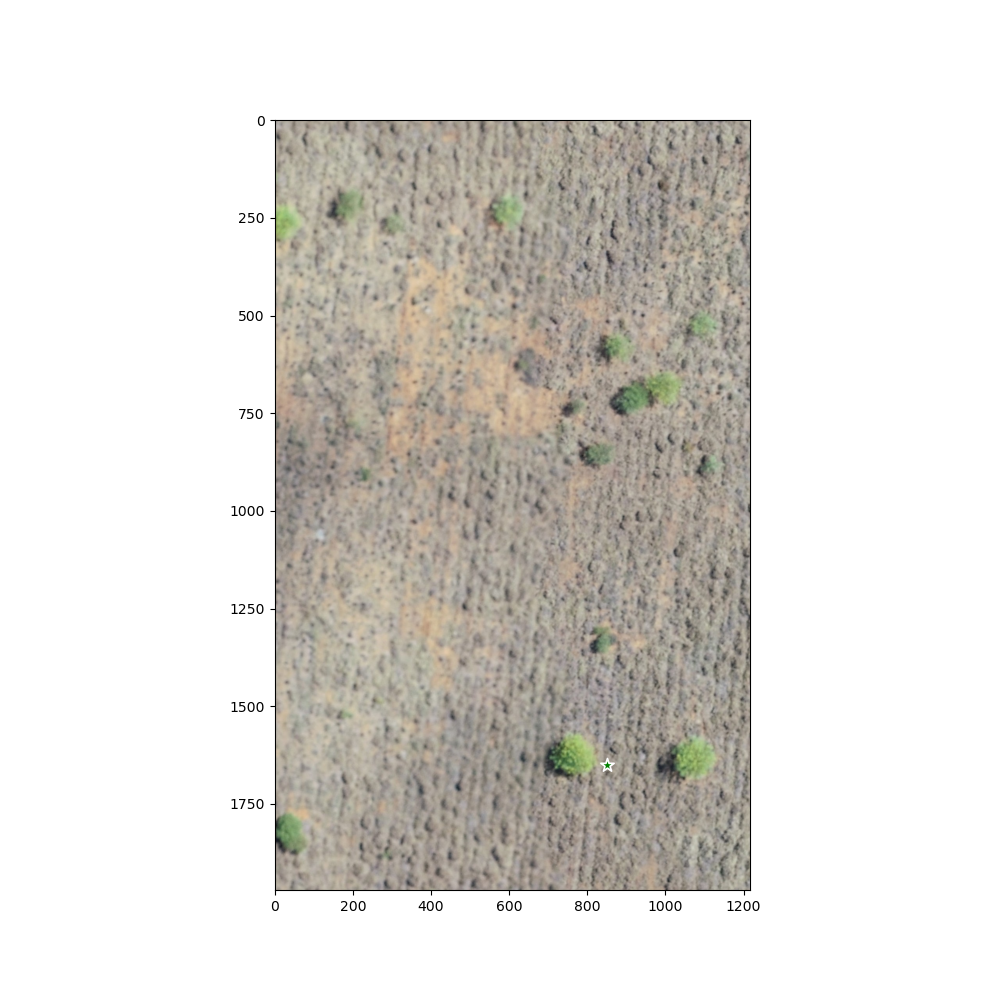
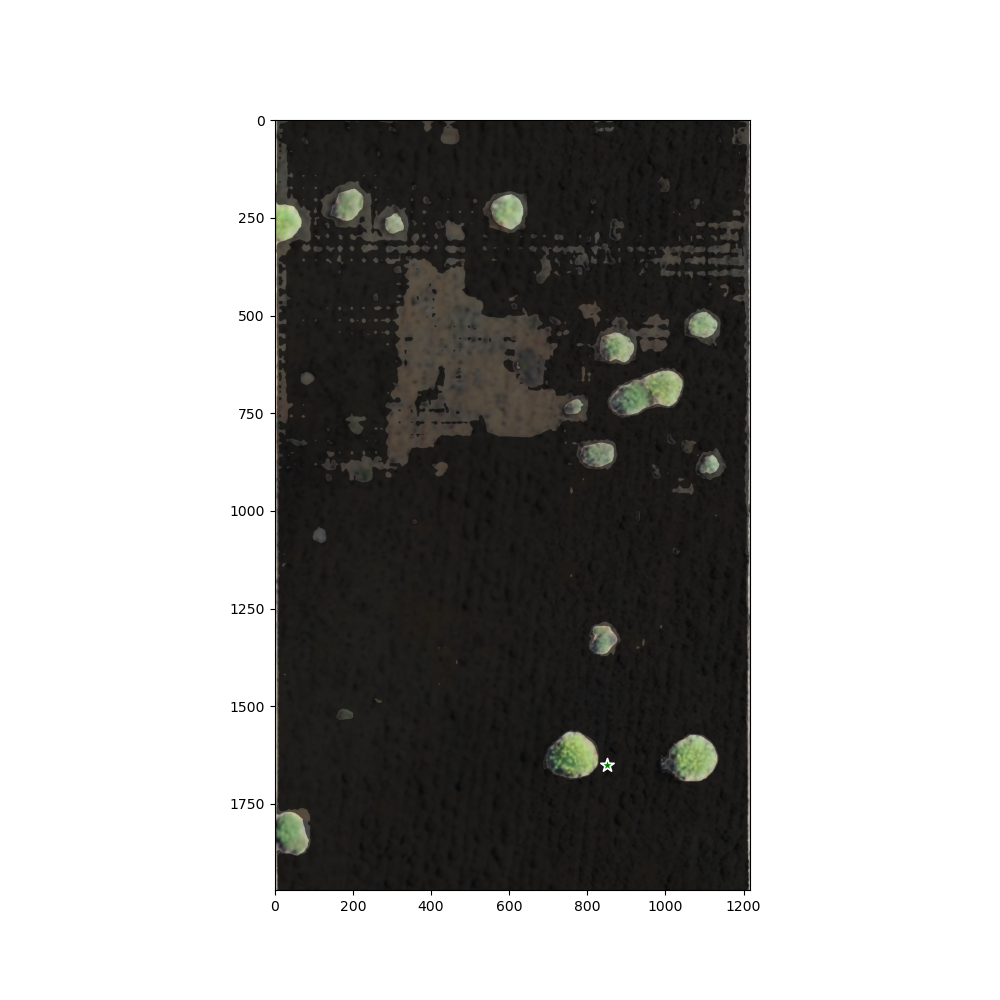
Bump masks

diff --git a/points_run_model.py b/points_run_model.py
@@ -20,8 +20,8 @@ def show_mask(mask, ax, random_color=False):
     if random_color:
         color = np.concatenate([np.random.random(3), np.array([0.6])], axis=0)
     else:
-        #color = np.array([30/255, 144/255, 255/255, 0.6])
-        color = np.array([0, 0, 0, 0])
+        color = np.array([0, 0, 0, 0.6])
+        #color = np.array([0, 0, 0, 0])
     h, w = mask.shape[-2:]
     mask_image = mask.reshape(h, w, 1) * color.reshape(1, 1, -1)
     ax.imshow(mask_image)
